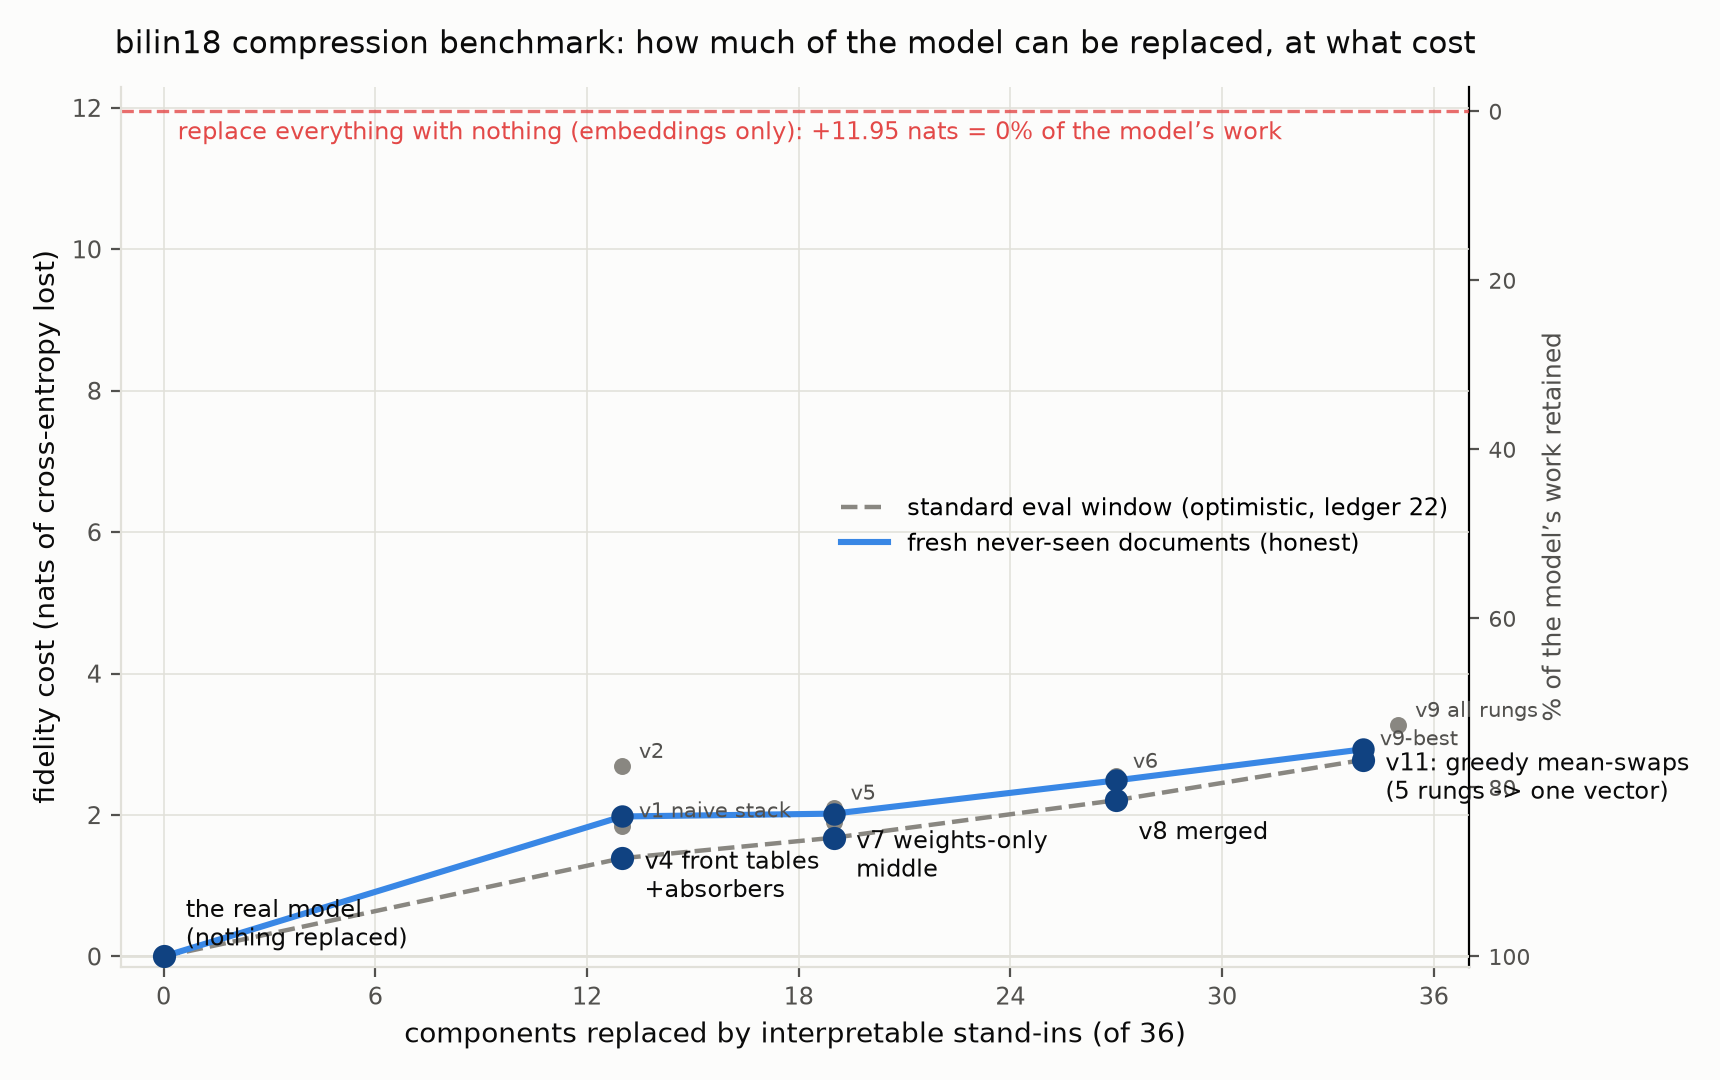
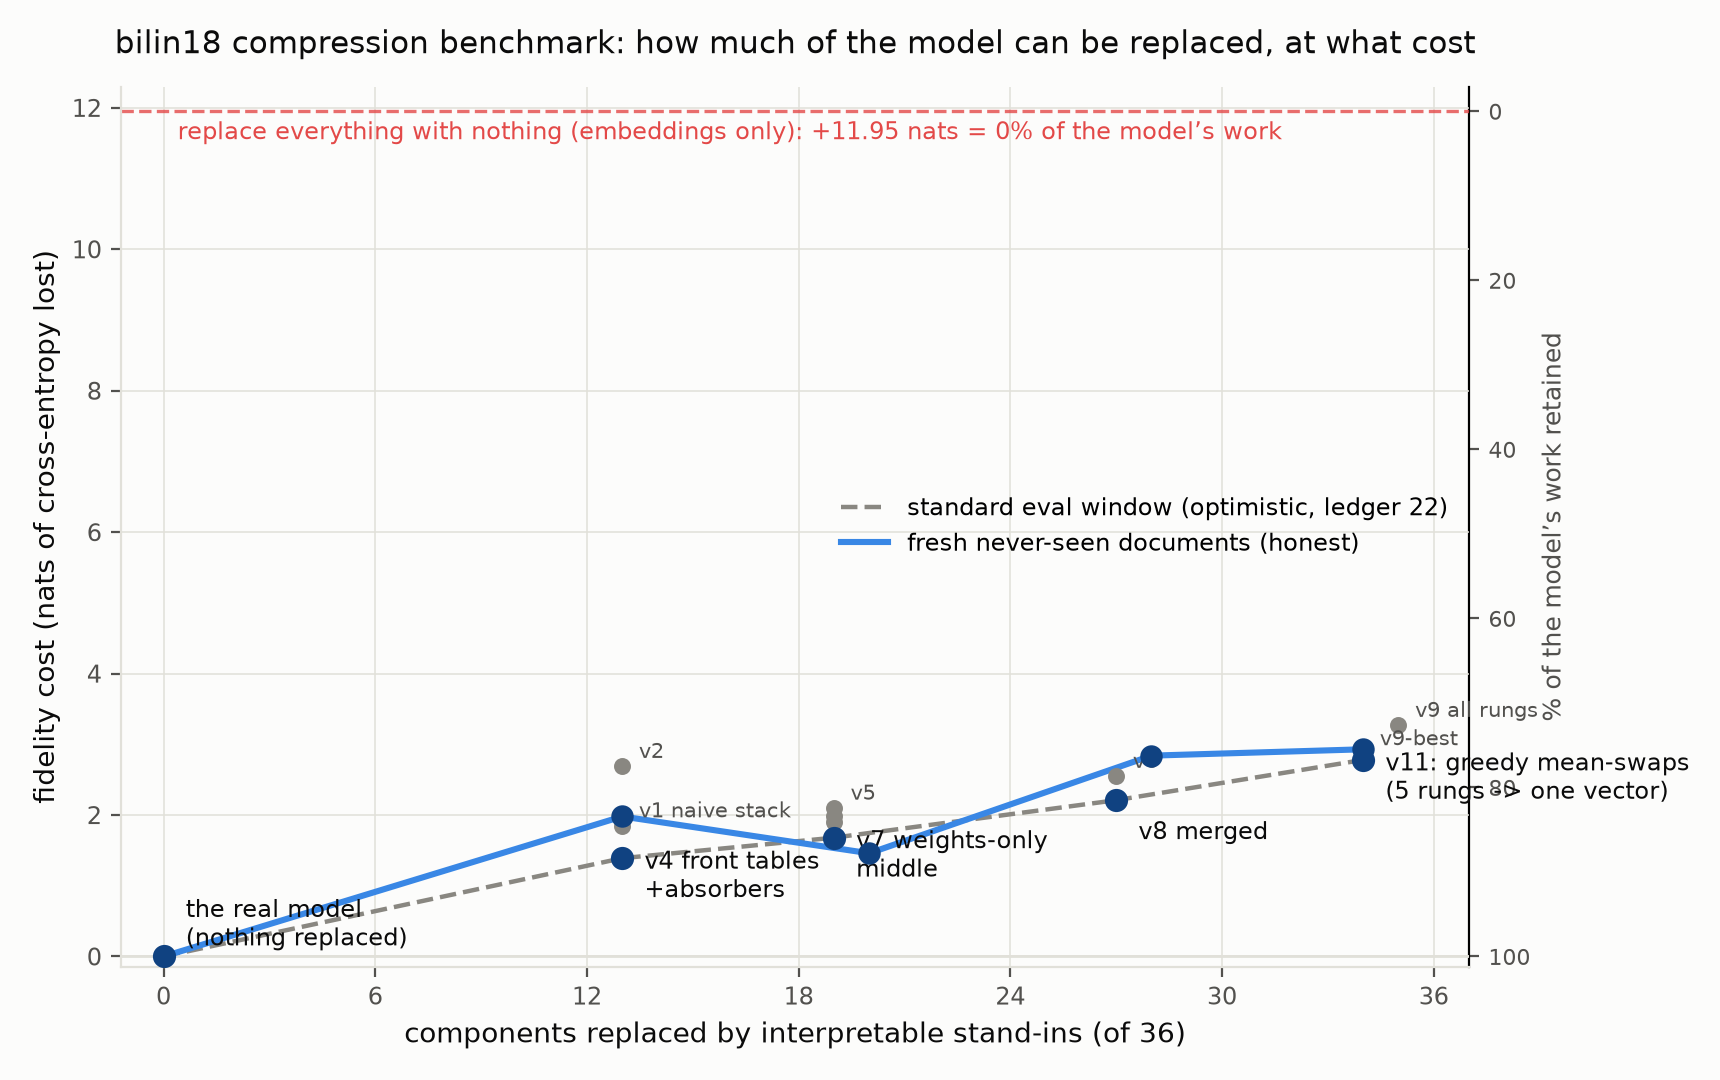
309: stream fidelity is the currency of composition; frontier curve updated
Claude-Session: https://claude.ai/code/session_01U2g27AYkgJeumNFPGf46Dd

Changed region(s): [[0.3698, 0.6722, 0.7703, 0.7944]]

diff --git a/basis_aligned/bilinear_quotient/make_benchmark_figs.py b/basis_aligned/bilinear_quotient/make_benchmark_figs.py
@@ -31,7 +31,8 @@ front=sorted([(n,c,l) for n,c,l,f in versions if f])
 fx=[0]+[n for n,_,_ in front]; fy=[0]+[c for _,c,_ in front]
 ax.plot(fx,fy,'--',color=MUTED,lw=1.6,zorder=2,
         label='standard eval window (optimistic, ledger 22)')
-FRESH=[(0,0),(13,1.98),(19,2.02),(27,2.49),(34,2.93)]
+FRESH=[(0,0),(13,1.98),(20,1.46),(28,2.84),(34,2.93)]
+FRESH=sorted(FRESH)
 ax.plot([p_[0] for p_ in FRESH],[p_[1] for p_ in FRESH],'-',color=BLUE,
         lw=2.2,zorder=3,label='fresh never-seen documents (honest)')
 for n,c in FRESH[1:]:

diff --git a/basis_aligned/bilinear_quotient/BILIN18_CONNECTION.md b/basis_aligned/bilinear_quotient/BILIN18_CONNECTION.md
@@ -7935,3 +7935,23 @@ what mismatched chains leak (307). Queued: the matched-context ladder
 back up -- +38 motif heads, then tail-attention dictionaries refit
 under the stack, then the middle-attention band -- each rung fit under
 its own eval context, with registered bars per stage.
+
+## 309. Stream fidelity, not CE, is the currency of composition
+
+`matched_ladder.py`, both bars FAILED, and the numbers teach the
+economics: on the fold-front base (20 comps, +1.46 fresh), adding the
+38 motif-head gains costs **+1.04** -- the identical swaps cost +0.12
+on the empirical-front substrate. Adding the tail-attention
+dictionaries costs +0.34 more, landing L2 at +2.84 fresh at ~28
+components: the fold advantage (0.40 at the base) is fully consumed by
+the higher price every later rung pays. Mechanism hypothesis, now
+registered for direct test: the fold tables are CE-CHEAP but
+STREAM-UNFAITHFUL (context-free rows cannot track in-context
+variation), and downstream substitutions are priced by the fidelity of
+the stream they read, not by the CE of the stand-ins that produced it.
+If confirmed, the benchmark's high-coverage frontier is governed by a
+quantity none of our per-rung metrics measured: intermediate stream
+MSE. The coverage-fidelity curve is now visibly a genuine trade-off
+with a mechanism, not an engineering backlog: **20 comps @ +1.46 /
+28 @ +2.84 / 34 @ +2.93 fresh**, each point built under matched
+grammar.

diff --git a/basis_aligned/bilinear_quotient/RESULTS.md b/basis_aligned/bilinear_quotient/RESULTS.md
@@ -3932,3 +3932,6 @@ Full detail in `BILIN18_CONNECTION.md` §260.
 
 ## Appendix 308: matched-context merge (2026-08-18)
 - 20 components at +1.457 fresh / +1.251 C (fold front + CP middles + context-matched tail). Beats the 34-comp frontier by 1.47 nats with 14 fewer components. Fold beats matched empirical twin by 0.40. Ladder rebuild queued.
+
+## Appendix 309: composition economics (2026-08-18)
+- Motif-head cost is substrate-dependent 9x (0.12 empirical vs 1.04 fold base): stream fidelity, not CE, prices downstream rungs. Frontier: 20@+1.46 / 28@+2.84 / 34@+2.93 fresh. Stream-MSE mechanism test queued.
